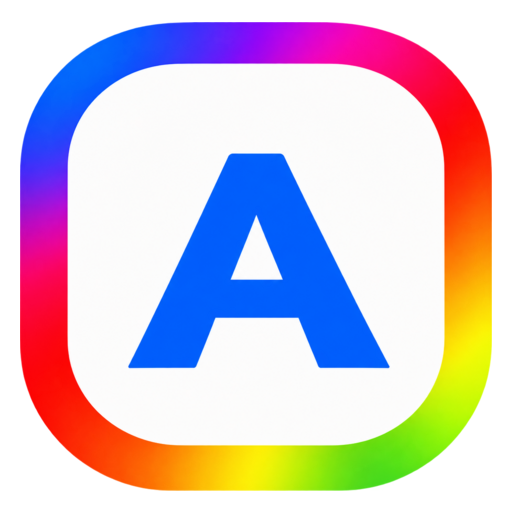
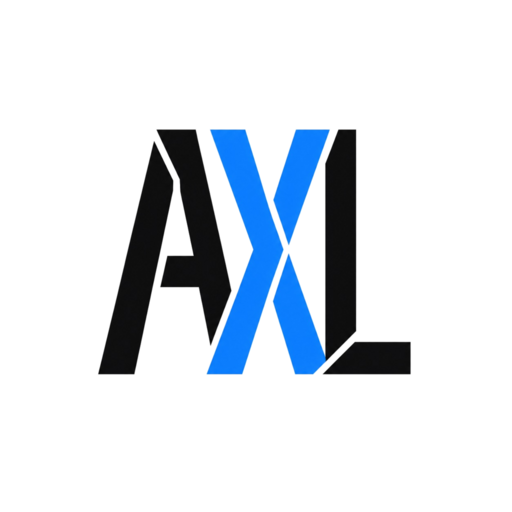
brand+seo: final AXL monogram on site, /services hub page, OG image
- Navbar: retired the old rainbow-gradient 'A' squircle; final user-approved
  AXL monogram (src/assets/axl-monogram.png) via next/image, wordmark text
  unchanged ('Axioms Lab').
- Favicon: src/app/icon.png replaced with the final monogram on white.
- OG/Twitter: 1200x630 share card (public/og/axioms-lab-og.png) wired into
  layout metadata; Organization JSON-LD gains an accurate logo field
  (public/brand/axl-monogram-512.png).
- New /services hub page (server-rendered, existing conventions): H1,
  honest intro, 4 discipline cards linking to detail pages, ItemList +
  Breadcrumb JSON-LD; added to sitemap and footer services column.
Pricing config untouched per owner instruction.

diff --git a/src/app/services/page.tsx b/src/app/services/page.tsx
@@ -1,0 +1,84 @@
+import React from "react";
+import type { Metadata } from "next";
+import Link from "next/link";
+import { ArrowRight } from "lucide-react";
+import Footer from "@/components/Footer";
+import ContactSection from "@/components/ContactSection";
+import JsonLd from "@/components/JsonLd";
+import { breadcrumbList } from "@/lib/seo";
+import { servicesData } from "@/data/services";
+import { SITE_URL } from "@/config/site";
+
+export const metadata: Metadata = {
+  title: "Services — Web Development, Web Designing, UI/UX & AI Agents | Axioms Lab",
+  description:
+    "All four Axioms Lab disciplines in one place: custom web development, conversion-focused web designing, product UI/UX design, and practical AI agents — each with deliverables, process and pricing context.",
+  alternates: { canonical: `${SITE_URL}/services` },
+};
+
+export default function ServicesIndexPage() {
+  const itemList = {
+    "@context": "https://schema.org",
+    "@type": "ItemList",
+    itemListElement: servicesData.map((s, i) => ({
+      "@type": "ListItem",
+      position: i + 1,
+      name: s.title,
+      url: `${SITE_URL}/services/${s.slug}`,
+    })),
+  };
+
+  return (
+    <main className="min-h-screen bg-[#FFFFFF] text-[#121317]">
+      <JsonLd
+        data={breadcrumbList([
+          { name: "Home", url: SITE_URL },
+          { name: "Services", url: `${SITE_URL}/services` },
+        ])}
+      />
+      <JsonLd data={itemList} />
+
+      <section className="pt-32 pb-16 sm:pt-40 sm:pb-20 px-4 sm:px-8 lg:px-16">
+        <div className="max-w-6xl mx-auto">
+          <div className="inline-flex items-center gap-2 px-3 py-1 rounded-full bg-[#F8F9FC] border border-[#212226]/[0.08] text-xs font-mono text-[#121317] mb-4">
+            <span className="w-1.5 h-1.5 rounded-full bg-[#3186FF]" />
+            <span>04 CORE DISCIPLINES</span>
+          </div>
+          <h1 className="text-4xl sm:text-6xl font-extrabold tracking-tight mb-6">
+            Our Services
+          </h1>
+          <p className="max-w-2xl text-base sm:text-lg text-[#45474D] leading-relaxed mb-12">
+            Axioms Lab works across four connected disciplines. Every engagement
+            is scoped in clear weekly milestones, priced with published starting
+            estimates, and delivered with full source ownership.
+          </p>
+
+          <div className="grid md:grid-cols-2 gap-6">
+            {servicesData.map((service, idx) => (
+              <Link
+                key={service.id}
+                href={`/services/${service.slug}`}
+                className="group p-8 rounded-3xl bg-[#F8F9FC] border border-[#212226]/[0.08] hover:border-[#3186FF]/40 hover:bg-[#F2F6FF] transition-colors focus:outline-none focus-visible:ring-2 focus-visible:ring-[#3186FF]"
+              >
+                <span className="font-mono text-xs font-bold text-[#3186FF]">
+                  {String(idx + 1).padStart(2, "0")} / DISCIPLINE
+                </span>
+                <h2 className="text-2xl font-bold mt-3 mb-3">{service.title}</h2>
+                <p className="text-sm sm:text-base text-[#45474D] leading-relaxed mb-6">
+                  {service.shortDesc}
+                </p>
+                <span className="inline-flex items-center gap-2 text-sm font-medium text-[#3186FF] group-hover:gap-3 transition-all">
+                  Explore {service.title}
+                  <ArrowRight className="w-4 h-4" aria-hidden="true" />
+                </span>
+              </Link>
+            ))}
+          </div>
+        </div>
+      </section>
+
+      <ContactSection />
+      <Footer />
+    </main>
+  );
+}

diff --git a/src/components/Navbar.tsx b/src/components/Navbar.tsx
@@ -3,6 +3,8 @@
 import React, { useState, useEffect, useRef } from "react";
 import { usePageTransition } from "@/components/transitions/context";
 import Link from "next/link";
+import axlMonogram from "@/assets/axl-monogram.png";
+import Image from "next/image";
 import { usePathname } from "next/navigation";
 import { AnimatePresence, motion } from "framer-motion";
 import { servicesData } from "@/data/services";
@@ -202,18 +204,14 @@ export default function Navbar() {
               href="/"
               className="inline-flex items-center gap-2.5 min-h-[44px] lg:min-h-0 group focus:outline-none focus-visible:ring-2 focus-visible:ring-[#3186FF] rounded-lg"
             >
-              <span
+              <Image
+                src={axlMonogram}
+                alt=""
                 aria-hidden="true"
-                className="w-5 h-5 rounded-md flex items-center justify-center p-[2px] shrink-0"
-                style={{
-                  background:
-                    "linear-gradient(135deg, #3186FF 0%, #FC413D 45%, #FBBC04 75%, #00B95C 100%)",
-                }}
-              >
-                <span className="w-full h-full rounded-[4px] bg-white flex items-center justify-center font-mono text-[9px] font-black text-[#3186FF]">
-                  A
-                </span>
-              </span>
+                width={24}
+                height={24}
+                className="h-6 w-6 shrink-0"
+              />
               <span className="font-bold text-base sm:text-lg tracking-tight text-[#202124]">
                 Axioms Lab
               </span>

diff --git a/src/app/layout.tsx b/src/app/layout.tsx
@@ -42,12 +42,21 @@ export const metadata: Metadata = {
     siteName: SITE_NAME,
     locale: "en_US",
     type: "website",
+    images: [
+      {
+        url: `${SITE_URL}/og/axioms-lab-og.png`,
+        width: 1200,
+        height: 630,
+        alt: "Axioms Lab — AXL monogram with wordmark and service line",
+      },
+    ],
   },
   twitter: {
     card: "summary_large_image",
     title: "Axioms Lab — Web Development, Web Designing, UI/UX & AI Agents",
     description:
       "Custom Web Development, High-Converting Web Designing, Product UI/UX Design, and Practical AI Agents.",
+    images: [`${SITE_URL}/og/axioms-lab-og.png`],
   },
   robots: {
     index: true,
@@ -68,6 +77,7 @@ const organizationJsonLd = {
   "@type": "Organization",
   name: SITE_NAME,
   url: SITE_URL,
+  logo: `${SITE_URL}/brand/axl-monogram-512.png`,
   email: SITE_EMAIL,
   description:
     "Digital design, web engineering, and AI lab operating in Kuopio, Finland and Lahore, Pakistan.",

diff --git a/src/components/Footer.tsx b/src/components/Footer.tsx
@@ -212,6 +212,14 @@ export default function Footer() {
             <ul className="space-y-2.5 text-sm text-[#45474D]">
               <li>
                 <Link
+                  href="/services"
+                  className="hover:text-[#121317] transition-colors font-medium text-[#3186FF]"
+                >
+                  All services (overview)
+                </Link>
+              </li>
+              <li>
+                <Link
                   href="/services/ui-ux-design"
                   className="hover:text-[#121317] transition-colors"
                 >

diff --git a/src/app/sitemap.ts b/src/app/sitemap.ts
@@ -41,6 +41,10 @@ export default function sitemap(): MetadataRoute.Sitemap {
       lastModified: STATIC_CONTENT_LASTMOD,
     },
     {
+      url: `${baseUrl}/services`,
+      lastModified: STATIC_CONTENT_LASTMOD,
+    },
+    {
       url: `${baseUrl}/contact`,
       lastModified: STATIC_CONTENT_LASTMOD,
     },
